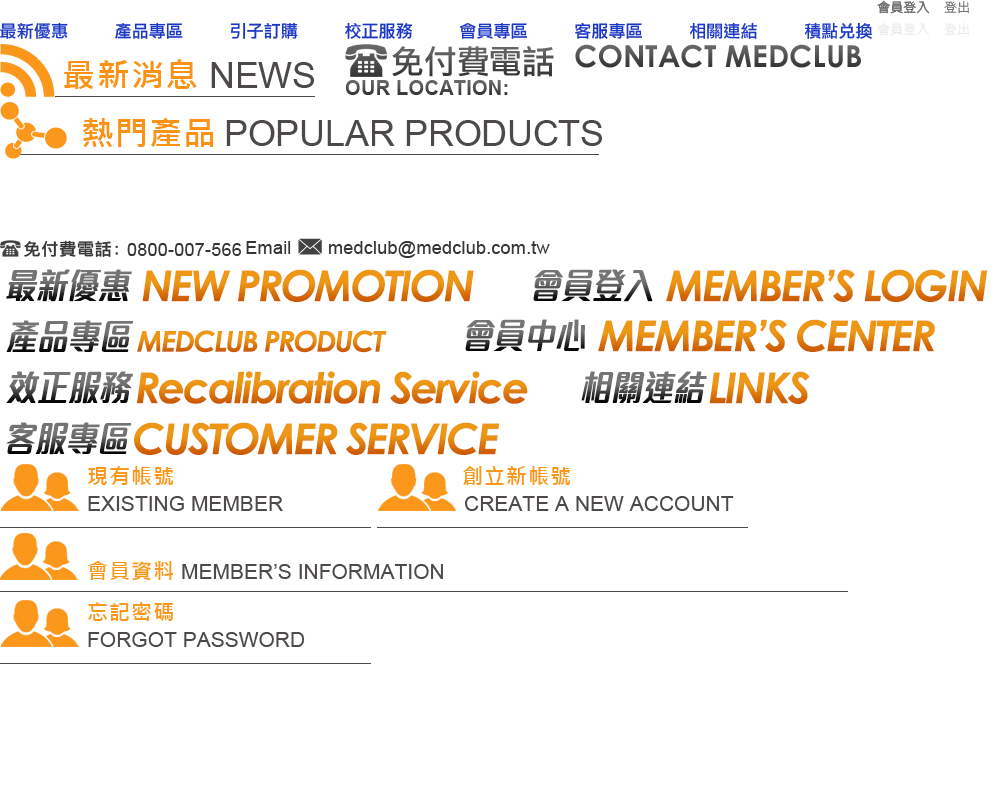
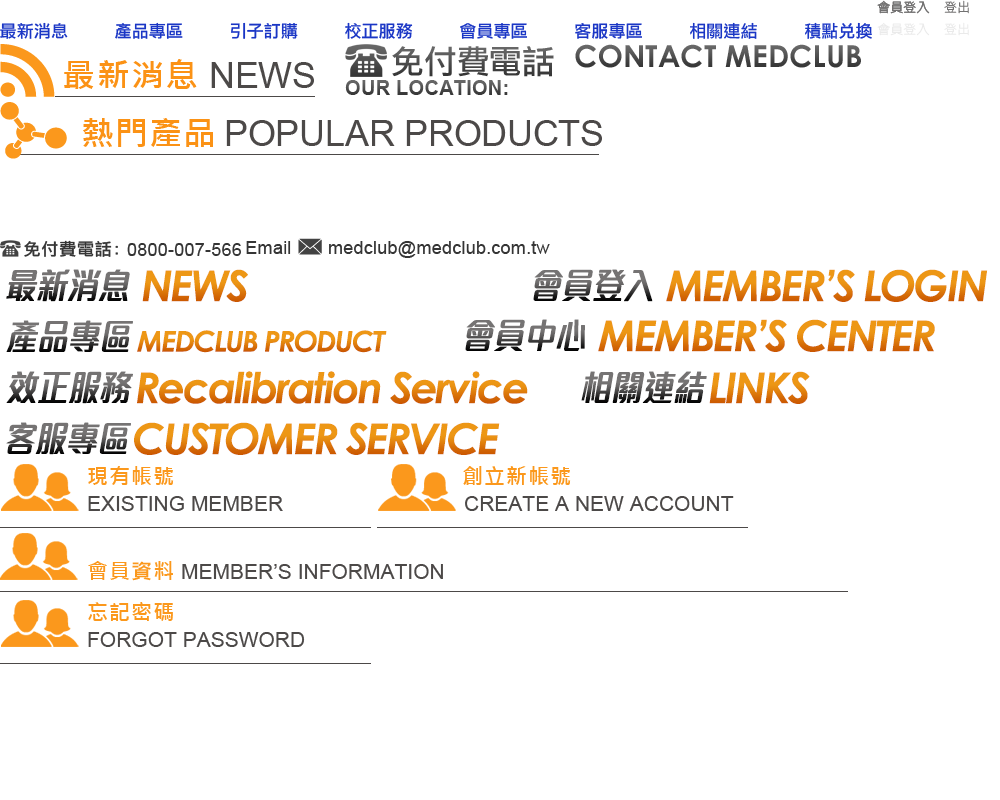
將最新優惠 按鈕 跟標籤 改成 最新消息
Changes to be committed:
	modified:   css/style.css
	modified:   images/txts.png
	modified:   sass/Project/_Layout.scss

Changed region(s): [[0.217, 0.3125, 0.496, 0.375], [0.062, 0.3438, 0.124, 0.375], [0.031, 0.0312, 0.062, 0.0625]]

diff --git a/css/style.css b/css/style.css
@@ -266,39 +266,39 @@ div#pageWrap:before {
   margin: auto;
 }
 .pageTitle-new .txt {
-  width: 481px;
+  width: 250px;
   height: 46px;
-  background: url('../images/txts.png?1426093302') 0 -263px no-repeat;
+  background: url('../images/txts.png?1427108432') 0 -263px no-repeat;
 }
 .pageTitle-prod .txt {
   width: 394px;
   height: 46px;
-  background: url('../images/txts.png?1426093302') 0 -314px no-repeat;
+  background: url('../images/txts.png?1427108432') 0 -314px no-repeat;
 }
 .pageTitle-reca .txt {
   width: 535px;
   height: 46px;
-  background: url('../images/txts.png?1426093302') 0 -365px no-repeat;
+  background: url('../images/txts.png?1427108432') 0 -365px no-repeat;
 }
 .pageTitle-service .txt {
   width: 507px;
   height: 46px;
-  background: url('../images/txts.png?1426093302') 0 -416px no-repeat;
+  background: url('../images/txts.png?1427108432') 0 -416px no-repeat;
 }
 .pageTitle-links .txt {
   width: 242px;
   height: 46px;
-  background: url('../images/txts.png?1426093302') -574px -365px no-repeat;
+  background: url('../images/txts.png?1427108432') -574px -365px no-repeat;
 }
 .pageTitle-login .txt {
   width: 468px;
   height: 46px;
-  background: url('../images/txts.png?1426093302') -527px -263px no-repeat;
+  background: url('../images/txts.png?1427108432') -527px -263px no-repeat;
 }
 .pageTitle-member .txt {
   width: 483px;
   height: 46px;
-  background: url('../images/txts.png?1426093302') -460px -314px no-repeat;
+  background: url('../images/txts.png?1427108432') -460px -314px no-repeat;
 }
 .pageTitle-prod .wrapper {
   padding-left: 247px;
@@ -546,13 +546,13 @@ button .btn {
 .btn-quick_login button {
   width: 53px;
   height: 14px;
-  background: url('../images/txts.png?1426093302') -877px 0 no-repeat;
+  background: url('../images/txts.png?1427108432') -877px 0 no-repeat;
 }
 .btn-quick_login:hover button {
   background-position: -877px -22px;
 }
 .btn-quick_login.signOut button {
-  background: url('../images/txts.png?1426093302') -930px 0 no-repeat;
+  background: url('../images/txts.png?1427108432') -930px 0 no-repeat;
 }
 .btn-quick_login.signOut:hover button {
   background-position: -930px -22px;
@@ -914,7 +914,7 @@ header#logo a {
 .main_nav-txt {
   width: 68px;
   height: 17px;
-  background: url('../images/txts.png?1426093302') 0 0 no-repeat;
+  background: url('../images/txts.png?1427108432') 0 0 no-repeat;
   text-indent: -119988px;
   overflow: hidden;
   text-align: left;
@@ -1045,7 +1045,7 @@ footer.global_ft:before {
 }
 footer.global_ft section.temp {
   height: 70px;
-  background: url('../images/txts.png?1426093302') 0 0 no-repeat;
+  background: url('../images/txts.png?1427108432') 0 0 no-repeat;
   float: left;
 }
 footer.global_ft section.temp-1 {
@@ -1080,13 +1080,13 @@ footer.contact_ft span {
 footer.contact_ft .tele {
   width: 241px;
   height: 20px;
-  background: url('../images/txts.png?1426093302') 0 -238px no-repeat;
+  background: url('../images/txts.png?1427108432') 0 -238px no-repeat;
   margin-right: 1rem;
 }
 footer.contact_ft .mail {
   width: 304px;
   height: 20px;
-  background: url('../images/txts.png?1426093302') -246px -238px no-repeat;
+  background: url('../images/txts.png?1427108432') -246px -238px no-repeat;
 }
 footer.copyright {
[1 lines of base64/hex data omitted]
@@ -1401,7 +1401,7 @@ footer.copyright p {
 .index_page-main .news-wrap h1 {
   width: 100%;
   height: 53px;
-  background: url('../images/txts.png?1426093302') 0 -44px no-repeat;
+  background: url('../images/txts.png?1427108432') 0 -44px no-repeat;
   margin-bottom: 31px;
   margin-bottom: 1.95rem;
 }
@@ -1453,7 +1453,7 @@ footer.copyright p {
 .index_page-main .container h1 {
   width: 100%;
   height: 57px;
-  background: url('../images/txts.png?1426093302') 0 -102px no-repeat;
+  background: url('../images/txts.png?1427108432') 0 -102px no-repeat;
 }
 
 .online_ordering {
@@ -1821,7 +1821,7 @@ footer.copyright p {
 .prod-aside .searchBlock .txt {
   width: 154px;
   height: 14px;
-  background: url('../images/txts.png?1426093302') -574px -80px no-repeat;
+  background: url('../images/txts.png?1427108432') -574px -80px no-repeat;
   margin: 0 auto 0.5em;
 }
 .prod-aside .searchBlock .inp-search {
@@ -2034,7 +2034,7 @@ footer.copyright p {
 .service-aside h1 {
   width: 209px;
   height: 33px;
-  background: url('../images/txts.png?1426093302') -345px -44px no-repeat;
+  background: url('../images/txts.png?1427108432') -345px -44px no-repeat;
   margin: auto;
 }
 .service-aside h2 {
@@ -2051,7 +2051,7 @@ footer.copyright p {
 .service-aside h3 {
   width: 163px;
   height: 15px;
-  background: url('../images/txts.png?1426093302') -345px -80px no-repeat;
+  background: url('../images/txts.png?1427108432') -345px -80px no-repeat;
   margin-top: 12px;
   margin-top: 0.75rem;
   margin-bottom: 12px;
@@ -2078,7 +2078,7 @@ footer.copyright p {
 .service-block h1 {
   width: 286px;
   height: 24px;
-  background: url('../images/txts.png?1426093302') -574px -44px no-repeat;
+  background: url('../images/txts.png?1427108432') -574px -44px no-repeat;
   margin-bottom: 0.8em;
 }
 .service-block p {
@@ -2364,7 +2364,7 @@ footer.copyright p {
 .login_page-login h1 {
   width: 371px;
   height: 64px;
-  background: url('../images/txts.png?1426093302') 0 -464px no-repeat;
+  background: url('../images/txts.png?1427108432') 0 -464px no-repeat;
 }
 .login_page-login.forgot {
   margin: auto !important;
@@ -2376,7 +2376,7 @@ footer.copyright p {
 .login_page-register h1 {
   width: 371px;
   height: 64px;
-  background: url('../images/txts.png?1426093302') -376px -464px no-repeat;
+  background: url('../images/txts.png?1427108432') -376px -464px no-repeat;
 }
 
 /*------------------------------------------------------------------------*\
@@ -2392,7 +2392,7 @@ footer.copyright p {
 .member-block h2 {
   width: 848px;
   height: 59px;
-  background: url('../images/txts.png?1426093302') 0 -533px no-repeat;
+  background: url('../images/txts.png?1427108432') 0 -533px no-repeat;
   margin: auto;
 }
 .member-form {

diff --git a/sass/Project/_Layout.scss b/sass/Project/_Layout.scss
@@ -113,7 +113,7 @@ div#pageWrap {
 		margin: auto;
 	}
 	@each $var, $w, $y, $x in
-		(new,     481px, -263px, 0),
+		(new,     250px, -263px, 0),
 		(prod,    394px, -314px, 0),
 		(reca,    535px, -365px, 0),
 		(service, 507px, -416px, 0),
